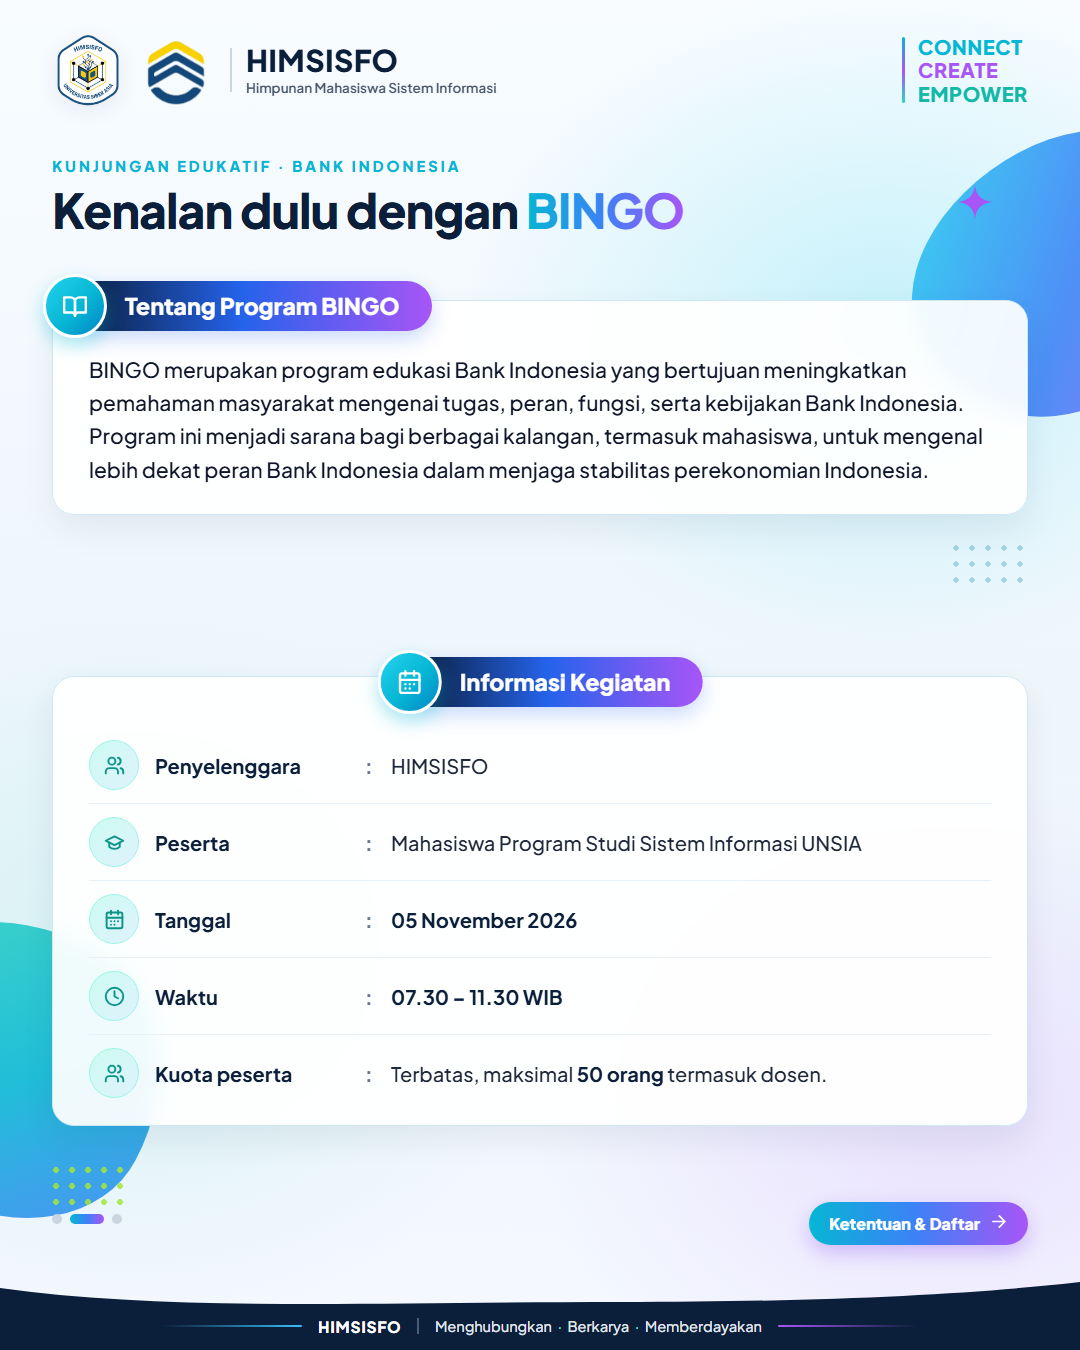
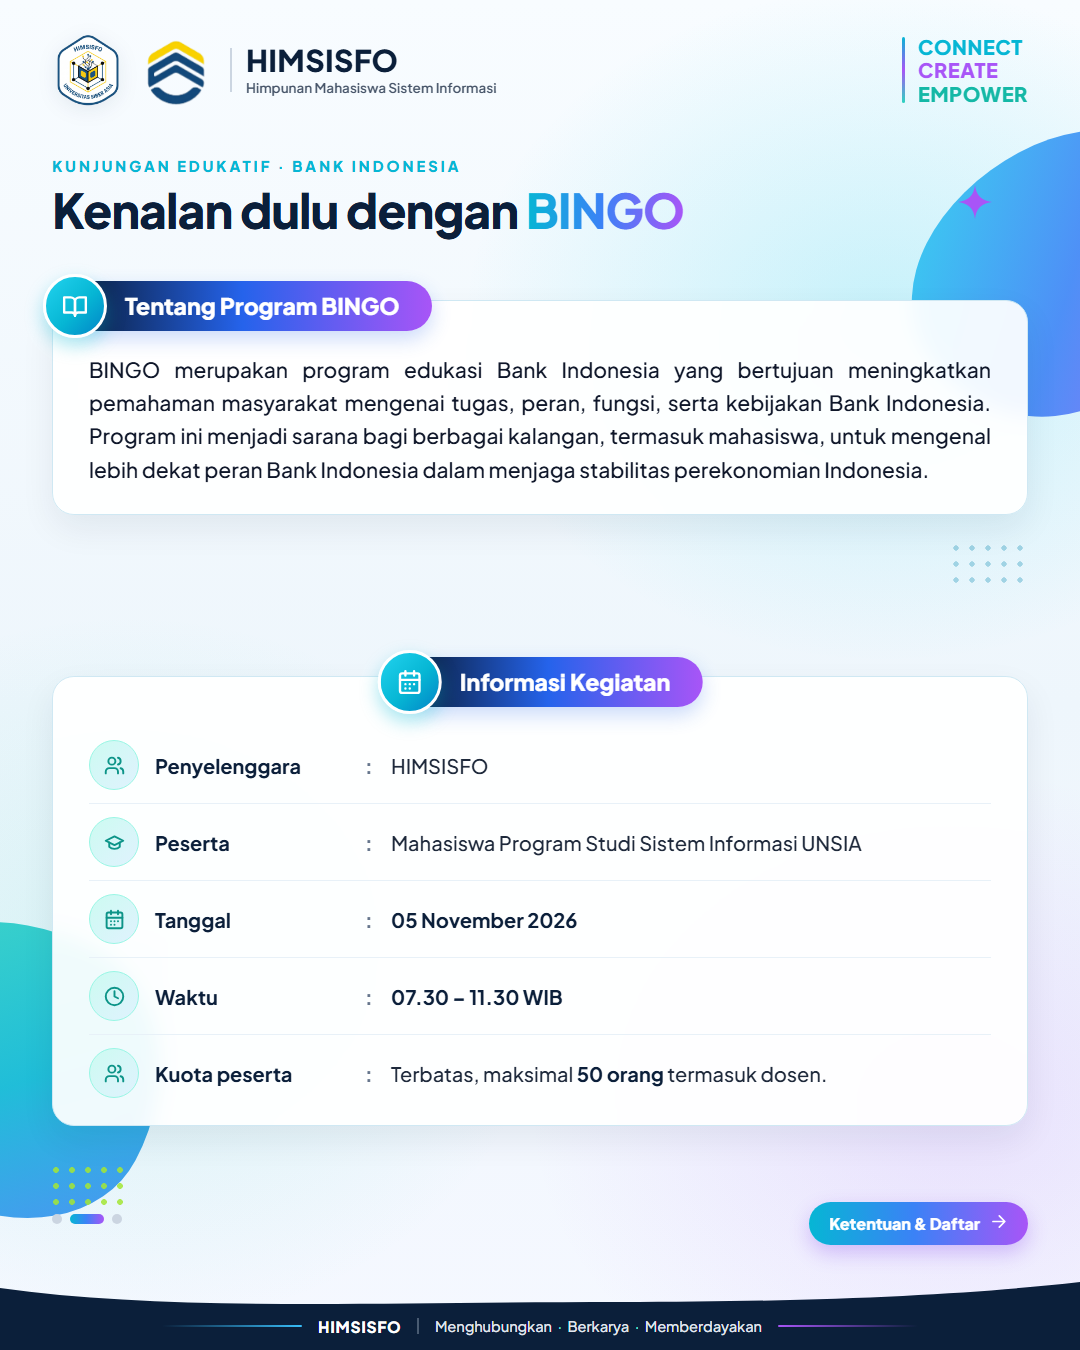
style: justify paragraph text in posters and regenerate PNG exports

Changed region(s): [[0.1528, 0.2489, 0.9167, 0.3422]]

diff --git a/projects/kunjungan-edukatif-bi/styles.css b/projects/kunjungan-edukatif-bi/styles.css
@@ -135,10 +135,10 @@
 .greet { position: absolute; z-index: 6; }
 .greet h3 { font: 800 25px/1.22 var(--f-head); color: var(--navy); }
 .greet h3 .wave { display: inline-block; transform: rotate(8deg); }
-.greet p { margin-top: 8px; font-size: 15.5px; line-height: 1.5; color: var(--ink); }
+.greet p { margin-top: 8px; font-size: 15.5px; line-height: 1.5; color: var(--ink); text-align: justify; }
 .greet p b { color: var(--navy); font-weight: 800; }
 
-.card p { font-size: 15px; line-height: 1.54; color: var(--ink); }
+.card p { font-size: 15px; line-height: 1.54; color: var(--ink); text-align: justify; }
 
 .info-row {
   display: grid;
@@ -175,7 +175,7 @@
   display: grid; place-items: center;
   box-shadow: 0 5px 12px rgba(37, 99, 235, .28);
 }
-.rules p { font-size: 14px; line-height: 1.38; color: var(--ink); }
+.rules p { font-size: 14px; line-height: 1.38; color: var(--ink); text-align: justify; }
 
 /* ---------- Brush Banner & Note ---------- */
 .brush-wrap {
@@ -208,7 +208,7 @@
 .brush-rays i:nth-child(3) { width: 20px; height: 5px; border-radius: 4px; background: var(--mint); transform: rotate(16deg); }
 
 .closing-note { position: absolute; z-index: 6; }
-.closing-note p { font-size: 14.5px; line-height: 1.46; color: var(--ink); }
+.closing-note p { font-size: 14.5px; line-height: 1.46; color: var(--ink); text-align: justify; }
 .closing-note p + p { margin-top: 7px; }
 .closing-note b { color: var(--navy); font-weight: 800; }
 
@@ -234,7 +234,7 @@
 .cta-badge svg { width: 28px; height: 28px; }
 .cta-content { flex: 1; min-width: 0; }
 .cta-content h4 { font: 800 25px/1.1 var(--f-head); color: #FFFFFF; }
-.cta-content p { margin-top: 3px; font-size: 13.5px; line-height: 1.35; color: #CBD5E1; }
+.cta-content p { margin-top: 3px; font-size: 13.5px; line-height: 1.35; color: #CBD5E1; text-align: left; }
 .url-pill {
   margin-top: 9px;
   display: flex; align-items: center; gap: 9px;

diff --git a/templates/shared/studio.css b/templates/shared/studio.css
@@ -234,6 +234,9 @@ body.only .frame { --s: 1 !important; width: 1080px !important; height: 1350px !
   font-family: var(--f-body);
   -webkit-font-smoothing: antialiased;
 }
+.poster p {
+  text-align: justify;
+}
 
 .side-swoosh-l {
   position: absolute; left: -155px; bottom: 160px; width: 320px; height: 290px;
